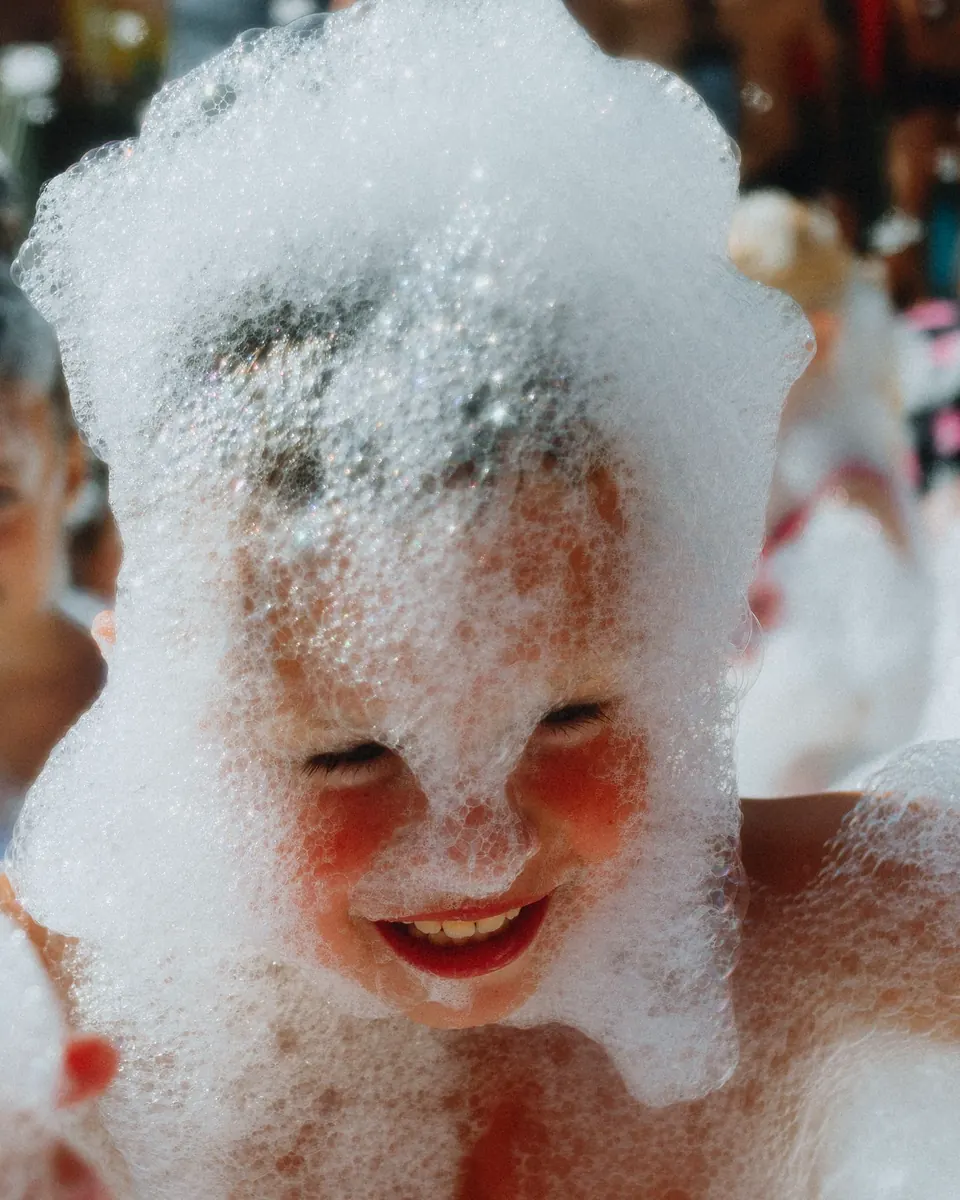
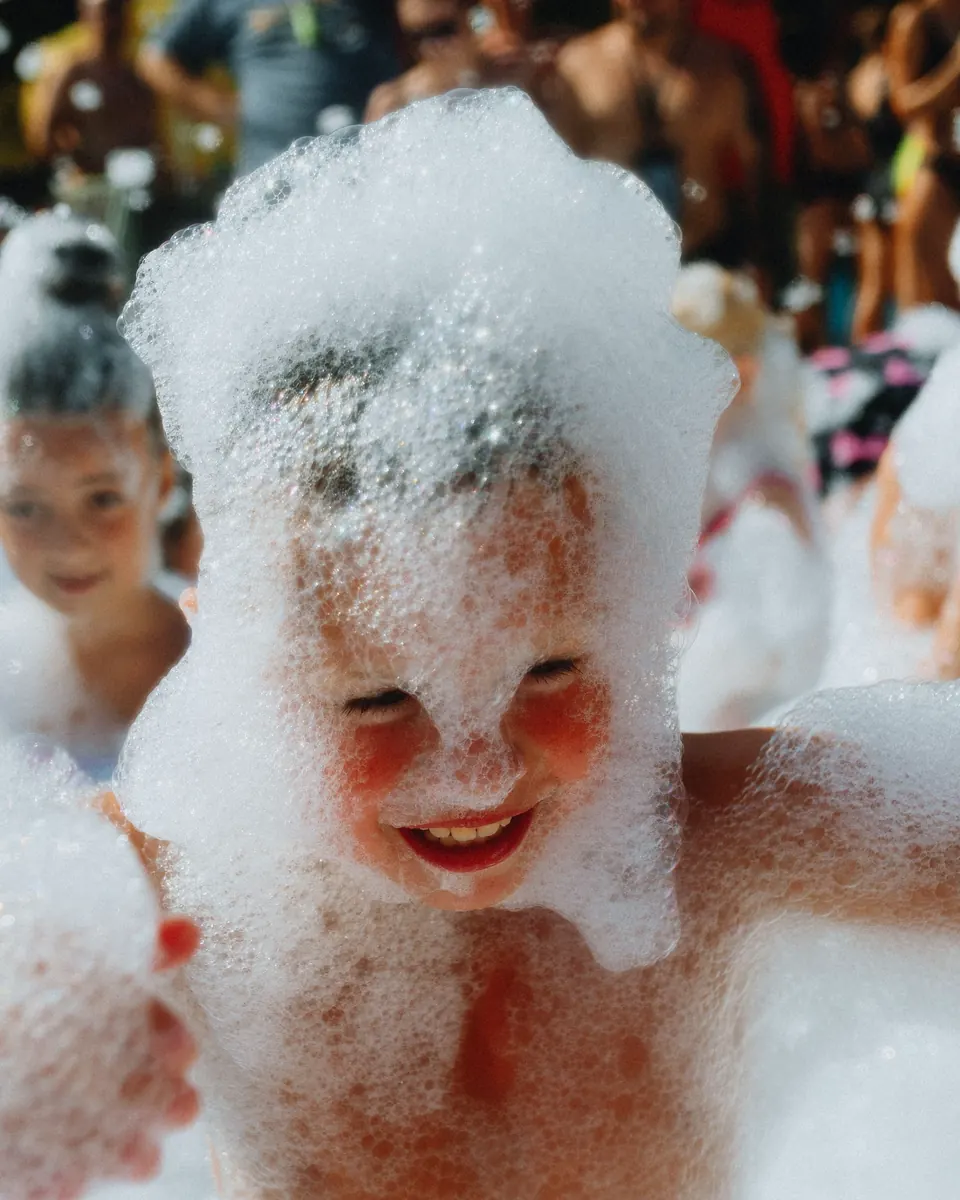
fix(home): zoom out hero family photo to 1.2x

diff --git a/deliverables/zhiraf-ufa/wp-theme/zhiraf-ufa/style.css b/deliverables/zhiraf-ufa/wp-theme/zhiraf-ufa/style.css
@@ -4,7 +4,7 @@ Theme URI: https://b2b-tour.ru/
 Author: Teya / Aurora
 Author URI: https://b2b-tour.ru/
 Description: Турагентство «Жираф» — Globe Trekker layout, подбор туров из Уфы.
-Version: 1.0.14-staging
+Version: 1.0.15-staging
 License: GNU General Public License v2 or later
 License URI: http://www.gnu.org/licenses/gpl-2.0.html
 Text Domain: zhiraf-ufa
